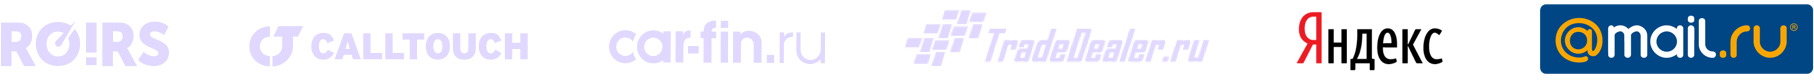
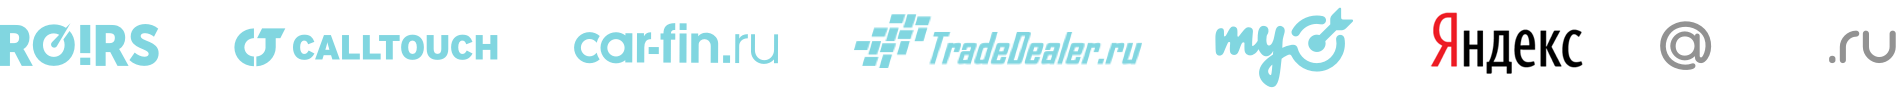
update estate conf

diff --git a/_sass/contents/_estate_conf.sass b/_sass/contents/_estate_conf.sass
@@ -28,7 +28,7 @@
       
       > img
         +inline-block
-        :height $baseline * 2
+        :height $baseline * 2.5
     
     > section
       :position absolute
@@ -64,7 +64,7 @@
           :size $baseline * 1.8
           :weight normal
         :line-height $baseline * 2
-        :color #00bcd4
+        :color #fff
       
         & + *
           :margin
@@ -91,7 +91,7 @@
         :display block
         :font
           :size $baseline * 0.9
-        :color #00bcd4
+        :color #fff
   
   > p
     :padding
@@ -100,8 +100,8 @@
     :line-height $baseline * 1.5
     :font
       :size $baseline * 1.2
-    :color #000
-    :background #00bcd4
+    :color #fff
+    :background #02ACC1
   
   > .program
     :background $white
@@ -118,7 +118,7 @@
       > section
         :width 100%
         :padding $baseline
-        :border 1px solid #E0D8FF
+        :border 1px solid #02ACC1
         :font
           :size $baseline * 0.9
       
@@ -140,8 +140,11 @@
               :bottom calc(#{-$baseline * 1.25} - 1px)
               :right $ninesixty_gutter_width * 2
               
+              g
+                +opacity(1)
+              
               path
-                :fill #E0D8FF
+                :fill #02ACC1
             
             > span
               :display block
@@ -200,7 +203,7 @@
               :padding
                 :top $baseline * 1.25
               :border
-                :top 1px solid #E0D8FF
+                :top 1px solid #02ACC1
 
 @media only screen and (max-width: 1024px), only screen and (max-device-width: 1024px)
   #container > #estate-conf

diff --git a/_includes/head.html b/_includes/head.html
@@ -8,7 +8,7 @@
   <meta name="description" content="{% if page.excerpt %}{{ page.excerpt | strip_html | strip_newlines | truncate: 160 }}{% else %}{{ site.description }}{% endif %}">
   
   <link rel="icon" type="image/png" href="{{ "/assets/images/icons/favicon.png" | prepend: site.baseurl | prepend: site.url }}">
-  <link rel="stylesheet" type="text/css" href="{{ "/assets/css/main.css" | prepend: site.baseurl }}">
+  <link rel="stylesheet" type="text/css" href="{{ "/assets/css/main.css" | prepend: site.baseurl | prepend: site.url }}">
   <link rel="canonical" href="{{ page.url | replace:'index.html','' | prepend: site.baseurl | prepend: site.url }}">
   
   <!-- Yandex.Metrika counter -->
